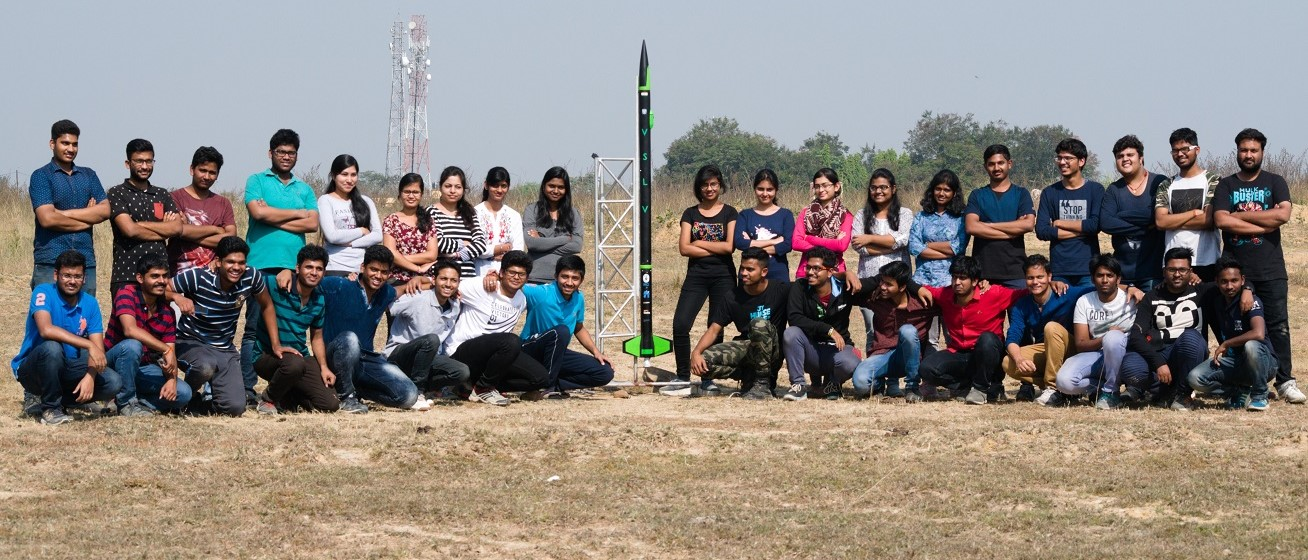
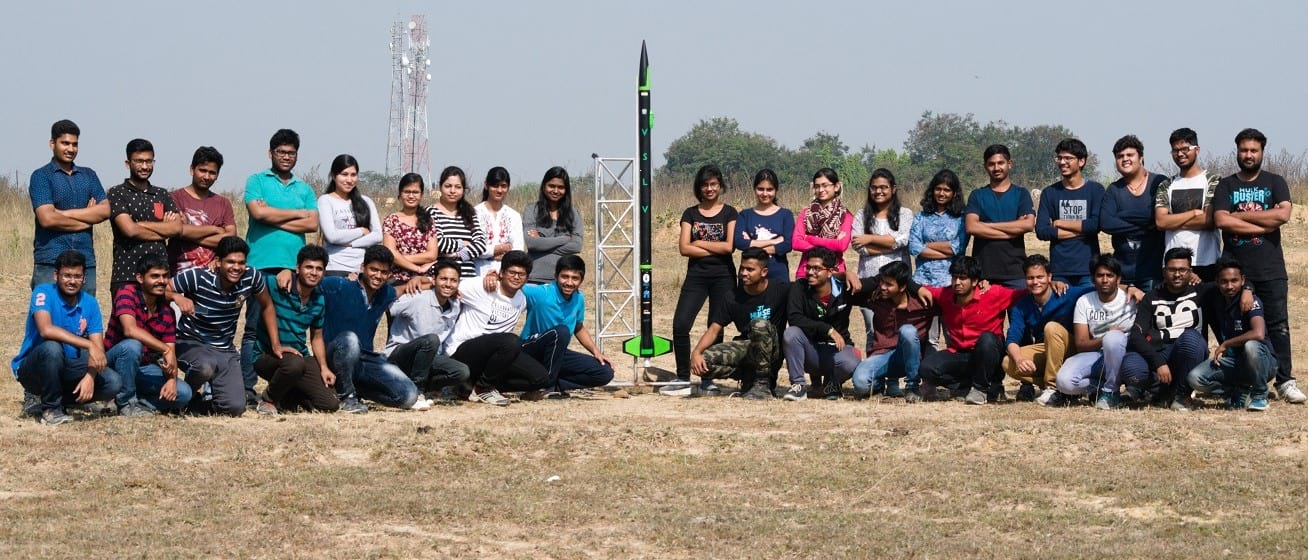
update

Changed region(s): [[0.5199, 0.3946, 0.5505, 0.425]]

diff --git a/index.html b/index.html
@@ -448,7 +448,7 @@
         <div class="carousel-inner">
             
             <div class="carousel-item active " >
-                <img src="./assets/img/VSLV%203.2.1.png" class="d-block w-100">
+                <img src="./assets/img/VSLV%203.2.1.jpg" class="d-block w-100">
              <div class="carousel-caption d-none d-sm-block">
              <h4 style="color:snow">VSLV 3.2.1</h4>
                 </div>
@@ -463,7 +463,7 @@
             </div>
             
             <div class="carousel-item">
-                <img src="./assets/img/VSLV%203.1%20.png" class="d-block w-100">
+                <img src="./assets/img/VSLV%203.1%20.jpg" class="d-block w-100">
                  <div class="carousel-caption d-none d-sm-block">
              <h4 style="color:snow">VSLV 3.1</h4>
                 </div>
@@ -479,7 +479,7 @@
             </div>
             
              <div class="carousel-item" >
-                <img src="./assets/img/Screenshot%20(32).png" class="d-block w-100">
+                <img src="./assets/img/Screenshot%20(32).jpg" class="d-block w-100">
                  <div class="carousel-caption d-none d-sm-block">
              <h4 style="color:snow">VSLV 2.0</h4>
                 </div>
@@ -532,8 +532,8 @@
   </section><!-- End Hero -->
 
   <main id="main">
-      <div  >
-      <div class="aryanmenu">
+      <div>
+      <div class="aryanmenu" >
           
           <div class="check">
      <a href="objectivesupdated.html" class="hvr-grow"> <img src="assets/img/img_451960.png" class="img-fluid" width="30px" height="30px"></a>
@@ -541,8 +541,10 @@
               <p>Objectives</p>
               
               </div>
+              
         
               </div>
+          <br>
           <div class="check">
           <a href="testsupdated.html" class="hvr-grow"> <img src="assets/img/icon_test.png" class="img-fluid" width="30px" height="30px"></a>
               <div class="slider">
@@ -551,6 +553,7 @@
               </div>
         
               </div>
+          <br>
           <div class="check">
               <a href="IICFinal/blog.html" class="hvr-grow"> <img src="assets/img/374313-200.png" class="img-fluid" width="30px" height="30px"></a>
                <div class="slider">
@@ -559,6 +562,7 @@
               </div>
         
               </div>
+          <br>
                <div class="check">
           <a href="teamupdated.html" class="hvr-grow"> <img src="assets/img/16-512.png" class="img-fluid" width="30px" height="30px"></a>
                    <div class="slider">
@@ -567,6 +571,7 @@
               </div>
         
               </div>
+          <br>
            
       </div>
           
@@ -687,9 +692,9 @@
 </div>
           </div>
           <div class="col-md-7 pt-4" data-aos="fade-left">
-             <h1 style="color: gold;font-size:25px;font-family: serif">Hon'ble Prime Minister Of India-</h1><h2 style="color: #213b52;font-family: serif"> MR. NARENDRA MODI</h2>
+             <h1 style="color: darkorange;font-size:25px;font-family: serif">Hon'ble Prime Minister Of India-</h1><h2 style="color: #213b52;font-family: serif"> MR. NARENDRA MODI</h2>
             <p  style="color: grey;font-family: serif">
-              Featured in <strong style="color:gold">Mann ki baat – 27 January 2019</strong>
+              Featured in <strong style="color:darkorange">Mann ki baat – 27 January 2019</strong>
 Hon'ble Prime Minister of India (PMO) spoke about our Team and Achievements at,
 Mann ki Baat is an Indian programme hosted by Hon'ble Prime Minister Narendra Modi in
 which he addresses the people of the nation on All India Radio.
@@ -710,9 +715,9 @@ which he addresses the people of the nation on All India Radio.
 </div>
           </div>
           <div class="col-md-7 pt-5 order-2 order-md-1" data-aos="fade-right">
-            <h1 style="color: gold;font-size:25px;font-family: serif";>Chairperson of the Indian Space Research Organisation(ISRO)-</h1><h2 style="color: #213b52;font-family: serif"> DR. K.SIVAN</h2>
+            <h1 style="color: darkorange;font-size:25px;font-family: serif";>Chairperson of the Indian Space Research Organisation(ISRO)-</h1><h2 style="color: #213b52;font-family: serif"> DR. K.SIVAN</h2>
             <p  style="color: grey;font-family: serif">
-              Chairperson of the Indian Space Research Organisation(ISRO)-DR. K.SIVAN speaking about openning a <strong style="color: gold">Inncubation center at VSSUT,BURLA.</strong> 
+              Chairperson of the Indian Space Research Organisation(ISRO)-DR. K.SIVAN speaking about openning a <strong style="color: darkorange">Inncubation center at VSSUT,BURLA.</strong> 
             </p>
             <!--<p>
               Ullamco laboris nisi ut aliquip ex ea commodo consequat. Duis aute irure dolor in reprehenderit in voluptate
@@ -730,7 +735,7 @@ which he addresses the people of the nation on All India Radio.
 </div>
           </div>
           <div class="col-md-7 pt-5" data-aos="fade-left">
-       <h1 style="color: gold;font-size:25px;font-family: serif">Hon'ble Union Minister of Petroleum &amp; Natural Gas and Steel-</h1><h2 style="color: #213b52;font-family: serif">SHRI DHARMENDRA PRADHAN</h2>
+       <h1 style="color: darkorange;font-size:25px;font-family: serif">Hon'ble Union Minister of Petroleum &amp; Natural Gas and Steel-</h1><h2 style="color: #213b52;font-family: serif">SHRI DHARMENDRA PRADHAN</h2>
             <p  style="color: grey;font-family: serif">Hon'ble Union Minister of Petroleum &amp; Natural Gas and Steel, Shri Dharmendra
 Pradhan spoke about Team VSLV of VSSUT Burla (Odisha) at the National Startup
 Conclave organised in New Delhi, by Odisha Corporate Foundation and MSME (Govt
@@ -871,6 +876,7 @@ of India)</p>
 
       </div>
     </section><!-- End Contact Section -->
+      </div>
   </main><!-- End #main -->
 
   <!-- ======= Footer ======= -->

diff --git a/objectivesupdated.html b/objectivesupdated.html
@@ -5,7 +5,7 @@
   <meta charset="utf-8">
   <meta content="width=device-width, initial-scale=1.0" name="viewport">
 
-  <title>Achievements</title>
+  <title>Objectives</title>
   <meta content="" name="descriptison">
   <meta content="" name="keywords">
 

diff --git a/testsupdated.html b/testsupdated.html
@@ -5,7 +5,7 @@
   <meta charset="utf-8">
   <meta content="width=device-width, initial-scale=1.0" name="viewport">
 
-  <title>Achievements</title>
+  <title>TESTS DONE</title>
   <meta content="" name="descriptison">
   <meta content="" name="keywords">
 

diff --git a/teamupdated.html b/teamupdated.html
@@ -5,7 +5,7 @@
   <meta charset="utf-8">
   <meta content="width=device-width, initial-scale=1.0" name="viewport">
 
-  <title>Achievements</title>
+  <title>TEAM</title>
   <meta content="" name="descriptison">
   <meta content="" name="keywords">
 
